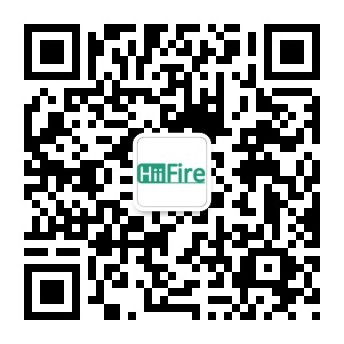
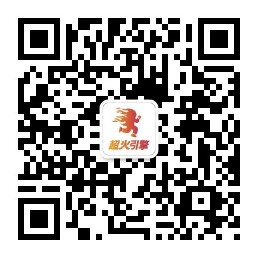
购物车联系客服添加弹窗

diff --git a/src/components/Shopping.vue b/src/components/Shopping.vue
@@ -58,7 +58,22 @@
             </div>
           </div>
           <div class="drawer-btn">
-            <button @click="serviceClick">联系客服</button>
+            <button @click="dialogVisible = true">联系客服</button>
+            <el-dialog
+              title="联系超火引擎"
+              :visible.sync="dialogVisible"
+              width="30%"
+              :modal="false"
+            >
+              <!-- <span>这是一段信息</span>
+              <span slot="footer" class="dialog-footer">
+                <el-button @click="dialogVisible = false">取 消</el-button>
+                <el-button type="primary" @click="dialogVisible = false"
+                  >确 定</el-button
+                >
+              </span> -->
+              <img src="../assets/image/service.png" alt="">
+            </el-dialog>
             <!-- <button>立即推广</button> -->
             <router-link to="/pay" tag="button">立即推广</router-link>
           </div>
@@ -84,15 +99,12 @@ export default {
     // 这里存放数据
     return {
       drawer: false,
-      size: '354px'
+      size: '354px',
+      dialogVisible: false
     }
   },
   // 方法集合
-  methods: {
-    serviceClick() {
-      console.log('111')
-    }
-  },
+  methods: {},
   // 监听属性 类似于data概念
   computed: {},
   // 监控data中的数据变化
@@ -318,7 +330,7 @@ export default {
           margin-right: 10px;
           cursor: pointer;
         }
-        button:nth-child(2) {
+        button:nth-child(3) {
           width: 144px;
           height: 44px;
           border-radius: 4px;
@@ -329,6 +341,10 @@ export default {
           font-weight: bold;
           border: 0;
           cursor: pointer;
+        }
+        img{
+          width: 200px;
+          height: 200px;
         }
       }
     }

diff --git a/src/components/Show/Masonry.vue b/src/components/Show/Masonry.vue
@@ -17,7 +17,6 @@
         @mouseover="mouseOver(index)"
         @mouseleave="mouseLeave()"
       >
-        <!-- v-for="items in item" :key="items.id" -->
         <img
           src="https://ss3.bdstatic.com/70cFv8Sh_Q1YnxGkpoWK1HF6hhy/it/u=3288873043,3914514780&fm=26&gp=0.jpg"
           alt=""
@@ -38,15 +37,15 @@
               </div>
               <div class="item-text-right-two">
                 <p>粉丝量</p>
-                <p>种草能力得分</p>
+                <p>点赞量</p>
               </div>
               <div class="item-text-right-one">
-                <p>{{ items.play_count }}W</p>
-                <p>{{ items.interact_count }}W</p>
+                <p>-</p>
+                <p>-</p>
               </div>
               <div class="item-text-right-two">
-                <p>预计播放量</p>
-                <p>预计互动量</p>
+                <p>种草能力</p>
+                <p>预计播放</p>
               </div>
             </div>
           </div>
@@ -171,7 +170,7 @@ export default {
         margin-top: 7px;
       }
       .item-text-right {
-        padding: 0 42px 0 27px;
+        margin: 0 20px;
         width: 210px;
         div {
           display: flex;

diff --git a/src/components/Show/MasonryA.vue b/src/components/Show/MasonryA.vue
@@ -17,7 +17,6 @@
         @mouseover="mouseOver(index)"
         @mouseleave="mouseLeave()"
       >
-        <!-- v-for="items in item" :key="items.id" -->
         <img
           src="https://ss3.bdstatic.com/70cFv8Sh_Q1YnxGkpoWK1HF6hhy/it/u=3288873043,3914514780&fm=26&gp=0.jpg"
           alt=""
@@ -38,15 +37,15 @@
               </div>
               <div class="item-text-right-two">
                 <p>粉丝量</p>
-                <p>种草能力得分</p>
+                <p>点赞量</p>
               </div>
               <div class="item-text-right-one">
-                <p>{{ items.play_count }}W</p>
-                <p>{{ items.interact_count }}W</p>
+                <p>-</p>
+                <p>-</p>
               </div>
               <div class="item-text-right-two">
-                <p>预计播放量</p>
-                <p>预计互动量</p>
+                <p>种草能力</p>
+                <p>预计播放</p>
               </div>
             </div>
           </div>
@@ -173,7 +172,7 @@ export default {
         margin-top: 7px;
       }
       .item-text-right {
-        padding: 0 42px 0 27px;
+        margin: 0 20px;
         width: 210px;
         div {
           display: flex;

diff --git a/src/components/Show/MasonryB.vue b/src/components/Show/MasonryB.vue
@@ -17,7 +17,6 @@
         @mouseover="mouseOver(index)"
         @mouseleave="mouseLeave()"
       >
-        <!-- v-for="items in item" :key="items.id" -->
         <img
           src="https://ss3.bdstatic.com/70cFv8Sh_Q1YnxGkpoWK1HF6hhy/it/u=3288873043,3914514780&fm=26&gp=0.jpg"
           alt=""
@@ -38,15 +37,15 @@
               </div>
               <div class="item-text-right-two">
                 <p>粉丝量</p>
-                <p>种草能力得分</p>
+                <p>点赞量</p>
               </div>
               <div class="item-text-right-one">
-                <p>{{ items.play_count }}W</p>
-                <p>{{ items.interact_count }}W</p>
+                <p>-</p>
+                <p>-</p>
               </div>
               <div class="item-text-right-two">
-                <p>预计播放量</p>
-                <p>预计互动量</p>
+                <p>种草能力</p>
+                <p>预计播放</p>
               </div>
             </div>
           </div>
@@ -173,7 +172,7 @@ export default {
         margin-top: 7px;
       }
       .item-text-right {
-        padding: 0 42px 0 27px;
+        margin: 0 20px;
         width: 210px;
         div {
           display: flex;

diff --git a/src/components/Show/MasonryC.vue b/src/components/Show/MasonryC.vue
@@ -17,7 +17,6 @@
         @mouseover="mouseOver(index)"
         @mouseleave="mouseLeave()"
       >
-        <!-- v-for="items in item" :key="items.id" -->
         <img
           src="https://ss3.bdstatic.com/70cFv8Sh_Q1YnxGkpoWK1HF6hhy/it/u=3288873043,3914514780&fm=26&gp=0.jpg"
           alt=""
@@ -38,15 +37,15 @@
               </div>
               <div class="item-text-right-two">
                 <p>粉丝量</p>
-                <p>种草能力得分</p>
+                <p>点赞量</p>
               </div>
               <div class="item-text-right-one">
-                <p>{{ items.play_count }}W</p>
-                <p>{{ items.interact_count }}W</p>
+                <p>-</p>
+                <p>-</p>
               </div>
               <div class="item-text-right-two">
-                <p>预计播放量</p>
-                <p>预计互动量</p>
+                <p>种草能力</p>
+                <p>预计播放</p>
               </div>
             </div>
           </div>
@@ -173,7 +172,7 @@ export default {
         margin-top: 7px;
       }
       .item-text-right {
-        padding: 0 42px 0 27px;
+        margin: 0 20px;
         width: 210px;
         div {
           display: flex;

diff --git a/src/components/Show/MasonryD.vue b/src/components/Show/MasonryD.vue
@@ -17,7 +17,6 @@
         @mouseover="mouseOver(index)"
         @mouseleave="mouseLeave()"
       >
-        <!-- v-for="items in item" :key="items.id" -->
         <img
           src="https://ss3.bdstatic.com/70cFv8Sh_Q1YnxGkpoWK1HF6hhy/it/u=3288873043,3914514780&fm=26&gp=0.jpg"
           alt=""
@@ -38,15 +37,15 @@
               </div>
               <div class="item-text-right-two">
                 <p>粉丝量</p>
-                <p>种草能力得分</p>
+                <p>点赞量</p>
               </div>
               <div class="item-text-right-one">
-                <p>{{ items.play_count }}W</p>
-                <p>{{ items.interact_count }}W</p>
+                <p>-</p>
+                <p>-</p>
               </div>
               <div class="item-text-right-two">
-                <p>预计播放量</p>
-                <p>预计互动量</p>
+                <p>种草能力</p>
+                <p>预计播放</p>
               </div>
             </div>
           </div>
@@ -173,7 +172,7 @@ export default {
         margin-top: 7px;
       }
       .item-text-right {
-        padding: 0 42px 0 27px;
+        margin: 0 20px;
         width: 210px;
         div {
           display: flex;

diff --git a/src/components/Show/MasonryE.vue b/src/components/Show/MasonryE.vue
@@ -17,7 +17,6 @@
         @mouseover="mouseOver(index)"
         @mouseleave="mouseLeave()"
       >
-        <!-- v-for="items in item" :key="items.id" -->
         <img
           src="https://ss3.bdstatic.com/70cFv8Sh_Q1YnxGkpoWK1HF6hhy/it/u=3288873043,3914514780&fm=26&gp=0.jpg"
           alt=""
@@ -38,15 +37,15 @@
               </div>
               <div class="item-text-right-two">
                 <p>粉丝量</p>
-                <p>种草能力得分</p>
+                <p>点赞量</p>
               </div>
               <div class="item-text-right-one">
-                <p>{{ items.play_count }}W</p>
-                <p>{{ items.interact_count }}W</p>
+                <p>-</p>
+                <p>-</p>
               </div>
               <div class="item-text-right-two">
-                <p>预计播放量</p>
-                <p>预计互动量</p>
+                <p>种草能力</p>
+                <p>预计播放</p>
               </div>
             </div>
           </div>
@@ -173,7 +172,7 @@ export default {
         margin-top: 7px;
       }
       .item-text-right {
-        padding: 0 42px 0 27px;
+        margin: 0 20px;
         width: 210px;
         div {
           display: flex;

diff --git a/src/components/Show/MasonryF.vue b/src/components/Show/MasonryF.vue
@@ -17,7 +17,6 @@
         @mouseover="mouseOver(index)"
         @mouseleave="mouseLeave()"
       >
-        <!-- v-for="items in item" :key="items.id" -->
         <img
           src="https://ss3.bdstatic.com/70cFv8Sh_Q1YnxGkpoWK1HF6hhy/it/u=3288873043,3914514780&fm=26&gp=0.jpg"
           alt=""
@@ -38,15 +37,15 @@
               </div>
               <div class="item-text-right-two">
                 <p>粉丝量</p>
-                <p>种草能力得分</p>
+                <p>点赞量</p>
               </div>
               <div class="item-text-right-one">
-                <p>{{ items.play_count }}W</p>
-                <p>{{ items.interact_count }}W</p>
+                <p>-</p>
+                <p>-</p>
               </div>
               <div class="item-text-right-two">
-                <p>预计播放量</p>
-                <p>预计互动量</p>
+                <p>种草能力</p>
+                <p>预计播放</p>
               </div>
             </div>
           </div>
@@ -173,7 +172,7 @@ export default {
         margin-top: 7px;
       }
       .item-text-right {
-        padding: 0 42px 0 27px;
+        margin: 0 20px;
         width: 210px;
         div {
           display: flex;
